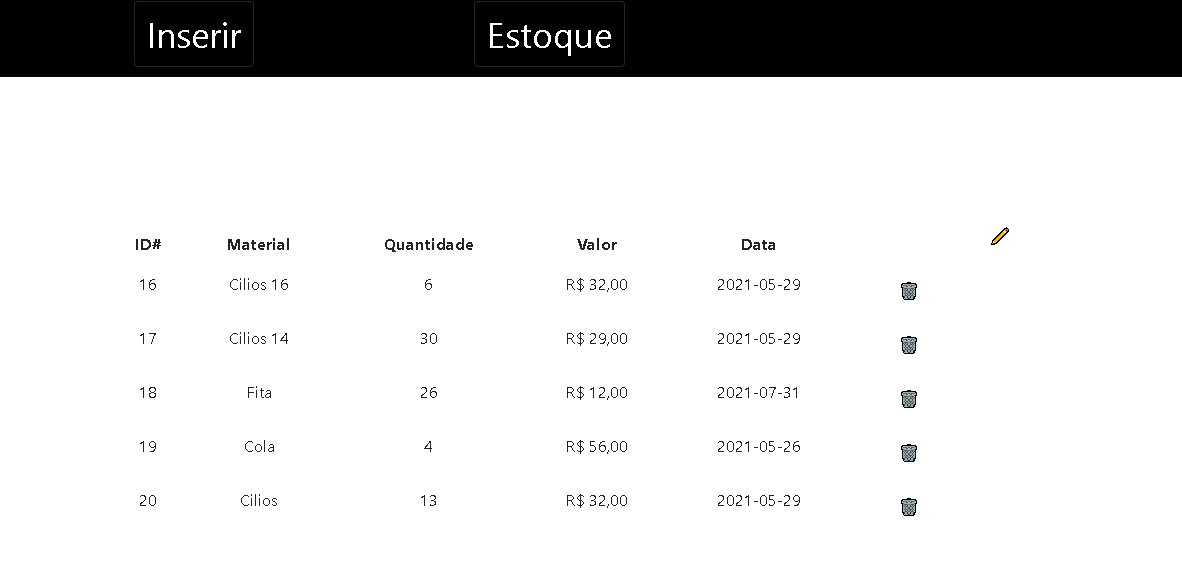
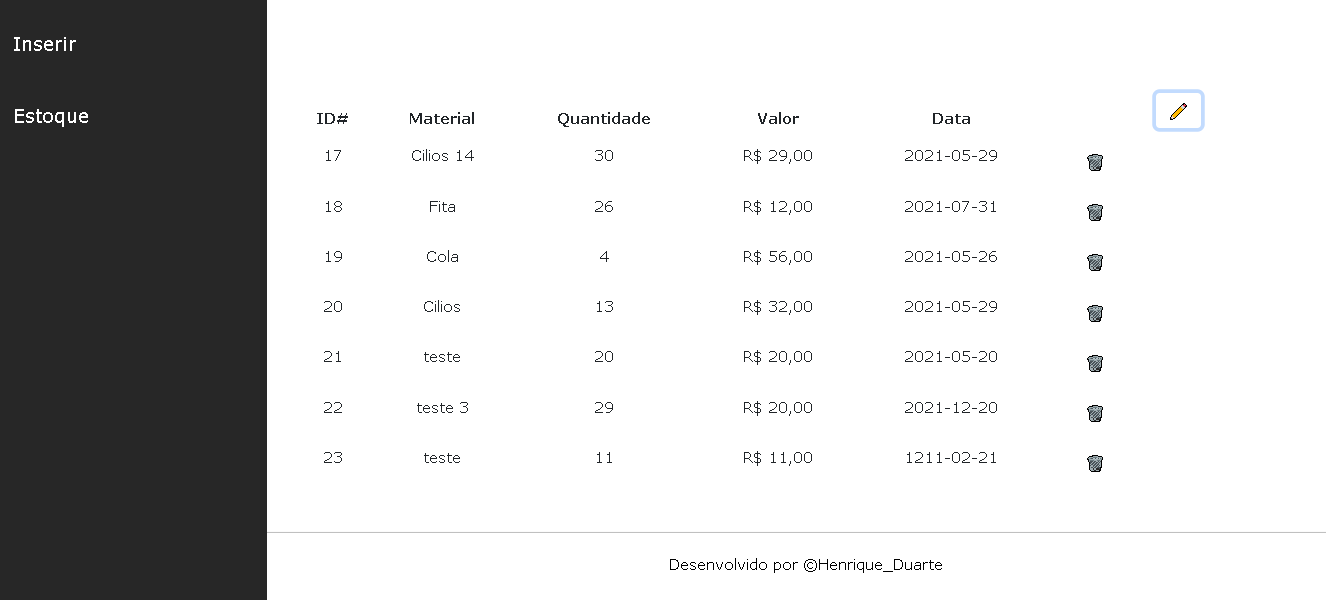
Alter nav

diff --git a/style/w3.css b/style/w3.css
@@ -1,0 +1,235 @@
+
+html{box-sizing:border-box}*,*:before,*:after{box-sizing:inherit}
+
+html{-ms-text-size-adjust:100%;-webkit-text-size-adjust:100%}body{margin:0}
+article,aside,details,figcaption,figure,footer,header,main,menu,nav,section{display:block}summary{display:list-item}
+audio,canvas,progress,video{display:inline-block}progress{vertical-align:baseline}
+audio:not([controls]){display:none;height:0}[hidden],template{display:none}
+a{background-color:transparent}a:active,a:hover{outline-width:0}
+abbr[title]{border-bottom:none;text-decoration:underline;text-decoration:underline dotted}
+b,strong{font-weight:bolder}dfn{font-style:italic}mark{background:#ff0;color:#000}
+small{font-size:80%}sub,sup{font-size:75%;line-height:0;position:relative;vertical-align:baseline}
+sub{bottom:-0.25em}sup{top:-0.5em}figure{margin:1em 40px}img{border-style:none}
+code,kbd,pre,samp{font-family:monospace,monospace;font-size:1em}hr{box-sizing:content-box;height:0;overflow:visible}
+button,input,select,textarea,optgroup{font:inherit;margin:0}optgroup{font-weight:bold}
+button,input{overflow:visible}button,select{text-transform:none}
+button,[type=button],[type=reset],[type=submit]{-webkit-appearance:button}
+button::-moz-focus-inner,[type=button]::-moz-focus-inner,[type=reset]::-moz-focus-inner,[type=submit]::-moz-focus-inner{border-style:none;padding:0}
+button:-moz-focusring,[type=button]:-moz-focusring,[type=reset]:-moz-focusring,[type=submit]:-moz-focusring{outline:1px dotted ButtonText}
+fieldset{border:1px solid #c0c0c0;margin:0 2px;padding:.35em .625em .75em}
+legend{color:inherit;display:table;max-width:100%;padding:0;white-space:normal}textarea{overflow:auto}
+[type=checkbox],[type=radio]{padding:0}
+[type=number]::-webkit-inner-spin-button,[type=number]::-webkit-outer-spin-button{height:auto}
+[type=search]{-webkit-appearance:textfield;outline-offset:-2px}
+[type=search]::-webkit-search-decoration{-webkit-appearance:none}
+::-webkit-file-upload-button{-webkit-appearance:button;font:inherit}
+/* End extract */
+html,body{font-family:Verdana,sans-serif;font-size:15px;line-height:1.5}html{overflow-x:hidden}
+h1{font-size:36px}h2{font-size:30px}h3{font-size:24px}h4{font-size:20px}h5{font-size:18px}h6{font-size:16px}
+.w3-serif{font-family:serif}.w3-sans-serif{font-family:sans-serif}.w3-cursive{font-family:cursive}.w3-monospace{font-family:monospace}
+h1,h2,h3,h4,h5,h6{font-family:"Segoe UI",Arial,sans-serif;font-weight:400;margin:10px 0}.w3-wide{letter-spacing:4px}
+hr{border:0;border-top:1px solid #eee;margin:20px 0}
+.w3-image{max-width:100%;height:auto}img{vertical-align:middle}a{color:inherit}
+.w3-table,.w3-table-all{border-collapse:collapse;border-spacing:0;width:100%;display:table}.w3-table-all{border:1px solid #ccc}
+.w3-bordered tr,.w3-table-all tr{border-bottom:1px solid #ddd}.w3-striped tbody tr:nth-child(even){background-color:#f1f1f1}
+.w3-table-all tr:nth-child(odd){background-color:#fff}.w3-table-all tr:nth-child(even){background-color:#f1f1f1}
+.w3-hoverable tbody tr:hover,.w3-ul.w3-hoverable li:hover{background-color:#ccc}.w3-centered tr th,.w3-centered tr td{text-align:center}
+.w3-table td,.w3-table th,.w3-table-all td,.w3-table-all th{padding:8px 8px;display:table-cell;text-align:left;vertical-align:top}
+.w3-table th:first-child,.w3-table td:first-child,.w3-table-all th:first-child,.w3-table-all td:first-child{padding-left:16px}
+.w3-btn,.w3-button{border:none;display:inline-block;padding:8px 16px;vertical-align:middle;overflow:hidden;text-decoration:none;color:inherit;background-color:inherit;text-align:center;cursor:pointer;white-space:nowrap}
+.w3-btn:hover{box-shadow:0 8px 16px 0 rgba(0,0,0,0.2),0 6px 20px 0 rgba(0,0,0,0.19)}
+.w3-btn,.w3-button{-webkit-touch-callout:none;-webkit-user-select:none;-khtml-user-select:none;-moz-user-select:none;-ms-user-select:none;user-select:none}   
+.w3-disabled,.w3-btn:disabled,.w3-button:disabled{cursor:not-allowed;opacity:0.3}.w3-disabled *,:disabled *{pointer-events:none}
+.w3-btn.w3-disabled:hover,.w3-btn:disabled:hover{box-shadow:none}
+.w3-badge,.w3-tag{background-color:#000;color:#fff;display:inline-block;padding-left:8px;padding-right:8px;text-align:center}.w3-badge{border-radius:50%}
+.w3-ul{list-style-type:none;padding:0;margin:0}.w3-ul li{padding:8px 16px;border-bottom:1px solid #ddd}.w3-ul li:last-child{border-bottom:none}
+.w3-tooltip,.w3-display-container{position:relative}.w3-tooltip .w3-text{display:none}.w3-tooltip:hover .w3-text{display:inline-block}
+.w3-ripple:active{opacity:0.5}.w3-ripple{transition:opacity 0s}
+.w3-input{padding:8px;display:block;border:none;border-bottom:1px solid #ccc;width:100%}
+.w3-select{padding:9px 0;width:100%;border:none;border-bottom:1px solid #ccc}
+.w3-dropdown-click,.w3-dropdown-hover{position:relative;display:inline-block;cursor:pointer}
+.w3-dropdown-hover:hover .w3-dropdown-content{display:block}
+.w3-dropdown-hover:first-child,.w3-dropdown-click:hover{background-color:#ccc;color:#000}
+.w3-dropdown-hover:hover > .w3-button:first-child,.w3-dropdown-click:hover > .w3-button:first-child{background-color:#ccc;color:#000}
+.w3-dropdown-content{cursor:auto;color:#000;background-color:#fff;display:none;position:absolute;min-width:160px;margin:0;padding:0;z-index:1}
+.w3-check,.w3-radio{width:24px;height:24px;position:relative;top:6px}
+.w3-sidebar{height:100%;width:200px;background-color:#fff;position:fixed!important;z-index:1;overflow:auto}
+.w3-bar-block .w3-dropdown-hover,.w3-bar-block .w3-dropdown-click{width:100%}
+.w3-bar-block .w3-dropdown-hover .w3-dropdown-content,.w3-bar-block .w3-dropdown-click .w3-dropdown-content{min-width:100%}
+.w3-bar-block .w3-dropdown-hover .w3-button,.w3-bar-block .w3-dropdown-click .w3-button{width:100%;text-align:left;padding:8px 16px}
+.w3-main,#main{transition:margin-left .4s}
+.w3-modal{z-index:3;display:none;padding-top:100px;position:fixed;left:0;top:0;width:100%;height:100%;overflow:auto;background-color:rgb(0,0,0);background-color:rgba(0,0,0,0.4)}
+.w3-modal-content{margin:auto;background-color:#fff;position:relative;padding:0;outline:0;width:600px}
+.w3-bar{width:100%;overflow:hidden}.w3-center .w3-bar{display:inline-block;width:auto}
+.w3-bar .w3-bar-item{padding:8px 16px;float:left;width:auto;border:none;display:block;outline:0}
+.w3-bar .w3-dropdown-hover,.w3-bar .w3-dropdown-click{position:static;float:left}
+.w3-bar .w3-button{white-space:normal}
+.w3-bar-block .w3-bar-item{width:100%;display:block;padding:8px 16px;text-align:left;border:none;white-space:normal;float:none;outline:0}
+.w3-bar-block.w3-center .w3-bar-item{text-align:center}.w3-block{display:block;width:100%}
+.w3-responsive{display:block;overflow-x:auto}
+.w3-container:after,.w3-container:before,.w3-panel:after,.w3-panel:before,.w3-row:after,.w3-row:before,.w3-row-padding:after,.w3-row-padding:before,
+.w3-cell-row:before,.w3-cell-row:after,.w3-clear:after,.w3-clear:before,.w3-bar:before,.w3-bar:after{content:"";display:table;clear:both}
+.w3-col,.w3-half,.w3-third,.w3-twothird,.w3-threequarter,.w3-quarter{float:left;width:100%}
+.w3-col.s1{width:8.33333%}.w3-col.s2{width:16.66666%}.w3-col.s3{width:24.99999%}.w3-col.s4{width:33.33333%}
+.w3-col.s5{width:41.66666%}.w3-col.s6{width:49.99999%}.w3-col.s7{width:58.33333%}.w3-col.s8{width:66.66666%}
+.w3-col.s9{width:74.99999%}.w3-col.s10{width:83.33333%}.w3-col.s11{width:91.66666%}.w3-col.s12{width:99.99999%}
+@media (min-width:601px){.w3-col.m1{width:8.33333%}.w3-col.m2{width:16.66666%}.w3-col.m3,.w3-quarter{width:24.99999%}.w3-col.m4,.w3-third{width:33.33333%}
+.w3-col.m5{width:41.66666%}.w3-col.m6,.w3-half{width:49.99999%}.w3-col.m7{width:58.33333%}.w3-col.m8,.w3-twothird{width:66.66666%}
+.w3-col.m9,.w3-threequarter{width:74.99999%}.w3-col.m10{width:83.33333%}.w3-col.m11{width:91.66666%}.w3-col.m12{width:99.99999%}}
+@media (min-width:993px){.w3-col.l1{width:8.33333%}.w3-col.l2{width:16.66666%}.w3-col.l3{width:24.99999%}.w3-col.l4{width:33.33333%}
+.w3-col.l5{width:41.66666%}.w3-col.l6{width:49.99999%}.w3-col.l7{width:58.33333%}.w3-col.l8{width:66.66666%}
+.w3-col.l9{width:74.99999%}.w3-col.l10{width:83.33333%}.w3-col.l11{width:91.66666%}.w3-col.l12{width:99.99999%}}
+.w3-rest{overflow:hidden}.w3-stretch{margin-left:-16px;margin-right:-16px}
+.w3-content,.w3-auto{margin-left:auto;margin-right:auto}.w3-content{max-width:980px}.w3-auto{max-width:1140px}
+.w3-cell-row{display:table;width:100%}.w3-cell{display:table-cell}
+.w3-cell-top{vertical-align:top}.w3-cell-middle{vertical-align:middle}.w3-cell-bottom{vertical-align:bottom}
+.w3-hide{display:none!important}.w3-show-block,.w3-show{display:block!important}.w3-show-inline-block{display:inline-block!important}
+@media (max-width:1205px){.w3-auto{max-width:95%}}
+@media (max-width:600px){.w3-modal-content{margin:0 10px;width:auto!important}.w3-modal{padding-top:30px}
+.w3-dropdown-hover.w3-mobile .w3-dropdown-content,.w3-dropdown-click.w3-mobile .w3-dropdown-content{position:relative}	
+.w3-hide-small{display:none!important}.w3-mobile{display:block;width:100%!important}.w3-bar-item.w3-mobile,.w3-dropdown-hover.w3-mobile,.w3-dropdown-click.w3-mobile{text-align:center}
+.w3-dropdown-hover.w3-mobile,.w3-dropdown-hover.w3-mobile .w3-btn,.w3-dropdown-hover.w3-mobile .w3-button,.w3-dropdown-click.w3-mobile,.w3-dropdown-click.w3-mobile .w3-btn,.w3-dropdown-click.w3-mobile .w3-button{width:100%}}
+@media (max-width:768px){.w3-modal-content{width:500px}.w3-modal{padding-top:50px}}
+@media (min-width:993px){.w3-modal-content{width:900px}.w3-hide-large{display:none!important}.w3-sidebar.w3-collapse{display:block!important}}
+@media (max-width:992px) and (min-width:601px){.w3-hide-medium{display:none!important}}
+@media (max-width:992px){.w3-sidebar.w3-collapse{display:none}.w3-main{margin-left:0!important;margin-right:0!important}.w3-auto{max-width:100%}}
+.w3-top,.w3-bottom{position:fixed;width:100%;z-index:1}.w3-top{top:0}.w3-bottom{bottom:0}
+.w3-overlay{position:fixed;display:none;width:100%;height:100%;top:0;left:0;right:0;bottom:0;background-color:rgba(0,0,0,0.5);z-index:2}
+.w3-display-topleft{position:absolute;left:0;top:0}.w3-display-topright{position:absolute;right:0;top:0}
+.w3-display-bottomleft{position:absolute;left:0;bottom:0}.w3-display-bottomright{position:absolute;right:0;bottom:0}
+.w3-display-middle{position:absolute;top:50%;left:50%;transform:translate(-50%,-50%);-ms-transform:translate(-50%,-50%)}
+.w3-display-left{position:absolute;top:50%;left:0%;transform:translate(0%,-50%);-ms-transform:translate(-0%,-50%)}
+.w3-display-right{position:absolute;top:50%;right:0%;transform:translate(0%,-50%);-ms-transform:translate(0%,-50%)}
+.w3-display-topmiddle{position:absolute;left:50%;top:0;transform:translate(-50%,0%);-ms-transform:translate(-50%,0%)}
+.w3-display-bottommiddle{position:absolute;left:50%;bottom:0;transform:translate(-50%,0%);-ms-transform:translate(-50%,0%)}
+.w3-display-container:hover .w3-display-hover{display:block}.w3-display-container:hover span.w3-display-hover{display:inline-block}.w3-display-hover{display:none}
+.w3-display-position{position:absolute}
+.w3-circle{border-radius:50%}
+.w3-round-small{border-radius:2px}.w3-round,.w3-round-medium{border-radius:4px}.w3-round-large{border-radius:8px}.w3-round-xlarge{border-radius:16px}.w3-round-xxlarge{border-radius:32px}
+.w3-row-padding,.w3-row-padding>.w3-half,.w3-row-padding>.w3-third,.w3-row-padding>.w3-twothird,.w3-row-padding>.w3-threequarter,.w3-row-padding>.w3-quarter,.w3-row-padding>.w3-col{padding:0 8px}
+.w3-container,.w3-panel{padding:0.01em 16px}.w3-panel{margin-top:16px;margin-bottom:16px}
+.w3-code,.w3-codespan{font-family:Consolas,"courier new";font-size:16px}
+.w3-code{width:auto;background-color:#fff;padding:8px 12px;border-left:4px solid #4CAF50;word-wrap:break-word}
+.w3-codespan{color:crimson;background-color:#f1f1f1;padding-left:4px;padding-right:4px;font-size:110%}
+.w3-card,.w3-card-2{box-shadow:0 2px 5px 0 rgba(0,0,0,0.16),0 2px 10px 0 rgba(0,0,0,0.12)}
+.w3-card-4,.w3-hover-shadow:hover{box-shadow:0 4px 10px 0 rgba(0,0,0,0.2),0 4px 20px 0 rgba(0,0,0,0.19)}
+.w3-spin{animation:w3-spin 2s infinite linear}@keyframes w3-spin{0%{transform:rotate(0deg)}100%{transform:rotate(359deg)}}
+.w3-animate-fading{animation:fading 10s infinite}@keyframes fading{0%{opacity:0}50%{opacity:1}100%{opacity:0}}
+.w3-animate-opacity{animation:opac 0.8s}@keyframes opac{from{opacity:0} to{opacity:1}}
+.w3-animate-top{position:relative;animation:animatetop 0.4s}@keyframes animatetop{from{top:-300px;opacity:0} to{top:0;opacity:1}}
+.w3-animate-left{position:relative;animation:animateleft 0.4s}@keyframes animateleft{from{left:-300px;opacity:0} to{left:0;opacity:1}}
+.w3-animate-right{position:relative;animation:animateright 0.4s}@keyframes animateright{from{right:-300px;opacity:0} to{right:0;opacity:1}}
+.w3-animate-bottom{position:relative;animation:animatebottom 0.4s}@keyframes animatebottom{from{bottom:-300px;opacity:0} to{bottom:0;opacity:1}}
+.w3-animate-zoom {animation:animatezoom 0.6s}@keyframes animatezoom{from{transform:scale(0)} to{transform:scale(1)}}
+.w3-animate-input{transition:width 0.4s ease-in-out}.w3-animate-input:focus{width:100%!important}
+.w3-opacity,.w3-hover-opacity:hover{opacity:0.60}.w3-opacity-off,.w3-hover-opacity-off:hover{opacity:1}
+.w3-opacity-max{opacity:0.25}.w3-opacity-min{opacity:0.75}
+.w3-greyscale-max,.w3-grayscale-max,.w3-hover-greyscale:hover,.w3-hover-grayscale:hover{filter:grayscale(100%)}
+.w3-greyscale,.w3-grayscale{filter:grayscale(75%)}.w3-greyscale-min,.w3-grayscale-min{filter:grayscale(50%)}
+.w3-sepia{filter:sepia(75%)}.w3-sepia-max,.w3-hover-sepia:hover{filter:sepia(100%)}.w3-sepia-min{filter:sepia(50%)}
+.w3-tiny{font-size:10px!important}.w3-small{font-size:12px!important}.w3-medium{font-size:15px!important}.w3-large{font-size:18px!important}
+.w3-xlarge{font-size:24px!important}.w3-xxlarge{font-size:36px!important}.w3-xxxlarge{font-size:48px!important}.w3-jumbo{font-size:64px!important}
+.w3-left-align{text-align:left!important}.w3-right-align{text-align:right!important}.w3-justify{text-align:justify!important}.w3-center{text-align:center!important}
+.w3-border-0{border:0!important}.w3-border{border:1px solid #ccc!important}
+.w3-border-top{border-top:1px solid #ccc!important}.w3-border-bottom{border-bottom:1px solid #ccc!important}
+.w3-border-left{border-left:1px solid #ccc!important}.w3-border-right{border-right:1px solid #ccc!important}
+.w3-topbar{border-top:6px solid #ccc!important}.w3-bottombar{border-bottom:6px solid #ccc!important}
+.w3-leftbar{border-left:6px solid #ccc!important}.w3-rightbar{border-right:6px solid #ccc!important}
+.w3-section,.w3-code{margin-top:16px!important;margin-bottom:16px!important}
+.w3-margin{margin:16px!important}.w3-margin-top{margin-top:16px!important}.w3-margin-bottom{margin-bottom:16px!important}
+.w3-margin-left{margin-left:16px!important}.w3-margin-right{margin-right:16px!important}
+.w3-padding-small{padding:4px 8px!important}.w3-padding{padding:8px 16px!important}.w3-padding-large{padding:12px 24px!important}
+.w3-padding-16{padding-top:16px!important;padding-bottom:16px!important}.w3-padding-24{padding-top:24px!important;padding-bottom:24px!important}
+.w3-padding-32{padding-top:32px!important;padding-bottom:32px!important}.w3-padding-48{padding-top:48px!important;padding-bottom:48px!important}
+.w3-padding-64{padding-top:64px!important;padding-bottom:64px!important}
+.w3-padding-top-64{padding-top:64px!important}.w3-padding-top-48{padding-top:48px!important}
+.w3-padding-top-32{padding-top:32px!important}.w3-padding-top-24{padding-top:24px!important}
+.w3-left{float:left!important}.w3-right{float:right!important}
+.w3-button:hover{color:#000!important;background-color:#ccc!important}
+.w3-transparent,.w3-hover-none:hover{background-color:transparent!important}
+.w3-hover-none:hover{box-shadow:none!important}
+/* Colors */
+.w3-amber,.w3-hover-amber:hover{color:#000!important;background-color:#ffc107!important}
+.w3-aqua,.w3-hover-aqua:hover{color:#000!important;background-color:#00ffff!important}
+.w3-blue,.w3-hover-blue:hover{color:#fff!important;background-color:#2196F3!important}
+.w3-light-blue,.w3-hover-light-blue:hover{color:#000!important;background-color:#87CEEB!important}
+.w3-brown,.w3-hover-brown:hover{color:#fff!important;background-color:#795548!important}
+.w3-cyan,.w3-hover-cyan:hover{color:#000!important;background-color:#00bcd4!important}
+.w3-blue-grey,.w3-hover-blue-grey:hover,.w3-blue-gray,.w3-hover-blue-gray:hover{color:#fff!important;background-color:#607d8b!important}
+.w3-green,.w3-hover-green:hover{color:#fff!important;background-color:#4CAF50!important}
+.w3-light-green,.w3-hover-light-green:hover{color:#000!important;background-color:#8bc34a!important}
+.w3-indigo,.w3-hover-indigo:hover{color:#fff!important;background-color:#3f51b5!important}
+.w3-khaki,.w3-hover-khaki:hover{color:#000!important;background-color:#f0e68c!important}
+.w3-lime,.w3-hover-lime:hover{color:#000!important;background-color:#cddc39!important}
+.w3-orange,.w3-hover-orange:hover{color:#000!important;background-color:#ff9800!important}
+.w3-deep-orange,.w3-hover-deep-orange:hover{color:#fff!important;background-color:#ff5722!important}
+.w3-pink,.w3-hover-pink:hover{color:#fff!important;background-color:#e91e63!important}
+.w3-purple,.w3-hover-purple:hover{color:#fff!important;background-color:#9c27b0!important}
+.w3-deep-purple,.w3-hover-deep-purple:hover{color:#fff!important;background-color:#673ab7!important}
+.w3-red,.w3-hover-red:hover{color:#fff!important;background-color:#f44336!important}
+.w3-sand,.w3-hover-sand:hover{color:#000!important;background-color:#fdf5e6!important}
+.w3-teal,.w3-hover-teal:hover{color:#fff!important;background-color:#009688!important}
+.w3-yellow,.w3-hover-yellow:hover{color:#000!important;background-color:#ffeb3b!important}
+.w3-white,.w3-hover-white:hover{color:#000!important;background-color:#fff!important}
+.w3-black,.w3-hover-black:hover{color:#fff!important;background-color:#000!important}
+.w3-grey,.w3-hover-grey:hover,.w3-gray,.w3-hover-gray:hover{color:#000!important;background-color:#9e9e9e!important}
+.w3-light-grey,.w3-hover-light-grey:hover,.w3-light-gray,.w3-hover-light-gray:hover{color:#000!important;background-color:#f1f1f1!important}
+.w3-dark-grey,.w3-hover-dark-grey:hover,.w3-dark-gray,.w3-hover-dark-gray:hover{color:#fff!important;background-color:#616161!important}
+.w3-pale-red,.w3-hover-pale-red:hover{color:#000!important;background-color:#ffdddd!important}
+.w3-pale-green,.w3-hover-pale-green:hover{color:#000!important;background-color:#ddffdd!important}
+.w3-pale-yellow,.w3-hover-pale-yellow:hover{color:#000!important;background-color:#ffffcc!important}
+.w3-pale-blue,.w3-hover-pale-blue:hover{color:#000!important;background-color:#ddffff!important}
+.w3-text-amber,.w3-hover-text-amber:hover{color:#ffc107!important}
+.w3-text-aqua,.w3-hover-text-aqua:hover{color:#00ffff!important}
+.w3-text-blue,.w3-hover-text-blue:hover{color:#2196F3!important}
+.w3-text-light-blue,.w3-hover-text-light-blue:hover{color:#87CEEB!important}
+.w3-text-brown,.w3-hover-text-brown:hover{color:#795548!important}
+.w3-text-cyan,.w3-hover-text-cyan:hover{color:#00bcd4!important}
+.w3-text-blue-grey,.w3-hover-text-blue-grey:hover,.w3-text-blue-gray,.w3-hover-text-blue-gray:hover{color:#607d8b!important}
+.w3-text-green,.w3-hover-text-green:hover{color:#4CAF50!important}
+.w3-text-light-green,.w3-hover-text-light-green:hover{color:#8bc34a!important}
+.w3-text-indigo,.w3-hover-text-indigo:hover{color:#3f51b5!important}
+.w3-text-khaki,.w3-hover-text-khaki:hover{color:#b4aa50!important}
+.w3-text-lime,.w3-hover-text-lime:hover{color:#cddc39!important}
+.w3-text-orange,.w3-hover-text-orange:hover{color:#ff9800!important}
+.w3-text-deep-orange,.w3-hover-text-deep-orange:hover{color:#ff5722!important}
+.w3-text-pink,.w3-hover-text-pink:hover{color:#e91e63!important}
+.w3-text-purple,.w3-hover-text-purple:hover{color:#9c27b0!important}
+.w3-text-deep-purple,.w3-hover-text-deep-purple:hover{color:#673ab7!important}
+.w3-text-red,.w3-hover-text-red:hover{color:#f44336!important}
+.w3-text-sand,.w3-hover-text-sand:hover{color:#fdf5e6!important}
+.w3-text-teal,.w3-hover-text-teal:hover{color:#009688!important}
+.w3-text-yellow,.w3-hover-text-yellow:hover{color:#d2be0e!important}
+.w3-text-white,.w3-hover-text-white:hover{color:#fff!important}
+.w3-text-black,.w3-hover-text-black:hover{color:#000!important}
+.w3-text-grey,.w3-hover-text-grey:hover,.w3-text-gray,.w3-hover-text-gray:hover{color:#757575!important}
+.w3-text-light-grey,.w3-hover-text-light-grey:hover,.w3-text-light-gray,.w3-hover-text-light-gray:hover{color:#f1f1f1!important}
+.w3-text-dark-grey,.w3-hover-text-dark-grey:hover,.w3-text-dark-gray,.w3-hover-text-dark-gray:hover{color:#3a3a3a!important}
+.w3-border-amber,.w3-hover-border-amber:hover{border-color:#ffc107!important}
+.w3-border-aqua,.w3-hover-border-aqua:hover{border-color:#00ffff!important}
+.w3-border-blue,.w3-hover-border-blue:hover{border-color:#2196F3!important}
+.w3-border-light-blue,.w3-hover-border-light-blue:hover{border-color:#87CEEB!important}
+.w3-border-brown,.w3-hover-border-brown:hover{border-color:#795548!important}
+.w3-border-cyan,.w3-hover-border-cyan:hover{border-color:#00bcd4!important}
+.w3-border-blue-grey,.w3-hover-border-blue-grey:hover,.w3-border-blue-gray,.w3-hover-border-blue-gray:hover{border-color:#607d8b!important}
+.w3-border-green,.w3-hover-border-green:hover{border-color:#4CAF50!important}
+.w3-border-light-green,.w3-hover-border-light-green:hover{border-color:#8bc34a!important}
+.w3-border-indigo,.w3-hover-border-indigo:hover{border-color:#3f51b5!important}
+.w3-border-khaki,.w3-hover-border-khaki:hover{border-color:#f0e68c!important}
+.w3-border-lime,.w3-hover-border-lime:hover{border-color:#cddc39!important}
+.w3-border-orange,.w3-hover-border-orange:hover{border-color:#ff9800!important}
+.w3-border-deep-orange,.w3-hover-border-deep-orange:hover{border-color:#ff5722!important}
+.w3-border-pink,.w3-hover-border-pink:hover{border-color:#e91e63!important}
+.w3-border-purple,.w3-hover-border-purple:hover{border-color:#9c27b0!important}
+.w3-border-deep-purple,.w3-hover-border-deep-purple:hover{border-color:#673ab7!important}
+.w3-border-red,.w3-hover-border-red:hover{border-color:#f44336!important}
+.w3-border-sand,.w3-hover-border-sand:hover{border-color:#fdf5e6!important}
+.w3-border-teal,.w3-hover-border-teal:hover{border-color:#009688!important}
+.w3-border-yellow,.w3-hover-border-yellow:hover{border-color:#ffeb3b!important}
+.w3-border-white,.w3-hover-border-white:hover{border-color:#fff!important}
+.w3-border-black,.w3-hover-border-black:hover{border-color:#000!important}
+.w3-border-grey,.w3-hover-border-grey:hover,.w3-border-gray,.w3-hover-border-gray:hover{border-color:#9e9e9e!important}
+.w3-border-light-grey,.w3-hover-border-light-grey:hover,.w3-border-light-gray,.w3-hover-border-light-gray:hover{border-color:#f1f1f1!important}
+.w3-border-dark-grey,.w3-hover-border-dark-grey:hover,.w3-border-dark-gray,.w3-hover-border-dark-gray:hover{border-color:#616161!important}
+.w3-border-pale-red,.w3-hover-border-pale-red:hover{border-color:#ffe7e7!important}.w3-border-pale-green,.w3-hover-border-pale-green:hover{border-color:#e7ffe7!important}
+.w3-border-pale-yellow,.w3-hover-border-pale-yellow:hover{border-color:#ffffcc!important}.w3-border-pale-blue,.w3-hover-border-pale-blue:hover{border-color:#e7ffff!important}

diff --git a/src/App.vue b/src/App.vue
@@ -1,22 +1,28 @@
 <template>
 <div>
 
-<ul class="nav justify-content-left">
-  <li class="nav-item">
-    <button id="menuText" class="btn btn-dark" @click="insert()">Inserir</button>
-  </li>
-  <li class="nav-item">
-    <button id="menuText" class="btn btn-dark" @click="estoque()">Estoque</button>
-  </li>
-</ul>
+<div class="w3-sidebar w3-bar-block" style="width:20%" id="menu">
+  <div id="menuInt">
+    <a @click="insert()" class="w3-bar-item w3-button w3-hover-gray">Inserir</a>
+    <br>
+    <a @click="estoque()" class="w3-bar-item w3-button w3-hover-gray">Estoque</a>
+  </div>
+</div>
 
-    <lista v-show="mostraEstoque" />
-    <inserir v-show="mostraInsert" />
+    <lista id="cont" v-show="mostraEstoque" />
+    <inserir id="cont" v-show="mostraInsert" />
+
+<footer id="cont" class="fixed">
+  <hr>
+    <p>Desenvolvido por &copy;Henrique_Duarte</p>
+</footer>
 
 </div>
 </template>
 
 <script>
+
+require('/style/w3.css')
 
 import lista from './components/lista'
 import inserir from './components/inserir'
@@ -46,19 +52,30 @@ export default {
 
 <style>
 
-ul{
-  background-color: black;
+#menu{
+background-color: rgb(39, 39, 39);
+color: white;
+margin-top: -20px;
+height: 110%;
 }
 
-li {
-  padding: 10px;
+#cont {
+  margin-left: 15%;
+  padding: 2%
 }
 
-#menuText {
-  font-size: 26pt;
-  margin-left: 200px;
-  color: white;
-  background-color: rgba(0, 0, 0, 0);
+#menuInt {
+  margin-top: 50px;
+  font-size: 14pt;
+}
+
+footer {
+    text-align: center;
+    position: fixed;
+    bottom: 0;
+    width: 90%;
+    background-color:rgb(255, 255, 255);
+    color: black;
 }
 
 </style>

diff --git a/src/components/lista.vue b/src/components/lista.vue
@@ -34,7 +34,7 @@
       <th scope="col">Valor</th>
       <th scope="col">Data</th>
       <th scope="col"></th>
-      <th scope="col"><td><button type="button" class="btn btn-link" @click="editar()">&#9999;</button></td></th>
+      <th scope="col"><td><button type="button" class="btn btn-link" @click="editar()">✏</button></td></th>
     </tr>
   </thead>
 
@@ -45,7 +45,7 @@
       <td>{{material.quantidade}}</td>
       <td>{{material.valor | ValorDecimal }}</td>
       <td>{{material.data}}</td>
-      <td><button type="button" class="btn btn-link" @click="remover(material)">&#128465;</button></td>      
+      <td><button type="button" class="btn btn-link" @click="remover(material)">🗑</button></td>      
     </tr>
   </tbody>
     
@@ -128,7 +128,8 @@ export default {
 <style scoped>
 
 #tabela{
-  padding: 6%;
+  padding: 2%;
+  margin-left: 10px;
 }
 
 h1 {

diff --git a/public/index.html b/public/index.html
@@ -4,15 +4,10 @@
     <meta charset="utf-8">
     <meta http-equiv="X-UA-Compatible" content="IE=edge">
     <meta name="viewport" content="width=device-width,initial-scale=1.0">
-    <link rel="icon" href="<%= BASE_URL %>favicon.ico">
-    <title><%= htmlWebpackPlugin.options.title %></title>
+    <title>Materiais</title>
     <link href="https://cdn.jsdelivr.net/npm/bootstrap@5.0.1/dist/css/bootstrap.min.css" rel="stylesheet" integrity="sha384-+0n0xVW2eSR5OomGNYDnhzAbDsOXxcvSN1TPprVMTNDbiYZCxYbOOl7+AMvyTG2x" crossorigin="anonymous">
   </head>
   <body>
-    <noscript>
-      <strong>We're sorry but <%= htmlWebpackPlugin.options.title %> doesn't work properly without JavaScript enabled. Please enable it to continue.</strong>
-    </noscript>
     <div id="app"></div>
-    <!-- built files will be auto injected -->
   </body>
 </html>

diff --git a/src/components/inserir.vue b/src/components/inserir.vue
@@ -25,7 +25,7 @@
         </div>
 
       </div>
-      <button class="btn btn-dark"> Salvar </button>
+      <button class="btn btn-dark"> Salvar </button><br><br>
     </form>
   </div>
 
@@ -70,7 +70,7 @@ margin-top: 40px;
   text-align: left;
   background-color: rgba(2, 2, 2, 0.726);
   color: white;
-  height: 250px;
+  height: auto;
   width: 360px;
 }
 

diff --git a/README.md b/README.md
@@ -18,7 +18,7 @@
 
 <p><i>- npm run serve -- --port "PORTA DESEJADA"</i></p>
 
-<p>- Ao iniciar no navegador com as URL Local: http://localhost:8080/ ou Network: http://192.168.1.6:8080/, será carregado o app no Modelo single page app, onde é possivel vizualizar o estoque, inserir um novo material, realizar alterações e deletar; Para inserir um novo material, deve ir na opção "inserir", no menu superior:</p>
+<p>- Ao iniciar no navegador com as URL Local: http://localhost:8080/ ou Network: http://192.168.1.6:8080/, será carregado o app no Modelo single page app, onde é possivel vizualizar o estoque, inserir um novo material, realizar alterações e deletar; Para inserir um novo material, deve ir na opção "inserir", no menu a esquerda:</p>
 
 <img src="./git_img/estoque_all.png">
 
@@ -40,7 +40,7 @@
 
 <img src="./git_img/estoque_update.png">
 
-<p>- Para alterar um material, deve ser confirmado o delete por meio de um alerta:</p>
+<p>- Para alterar um material, deve ser confirmado por meio de um alerta:</p>
 
 <img src="./git_img/estoque_update_confirm.png">
 
